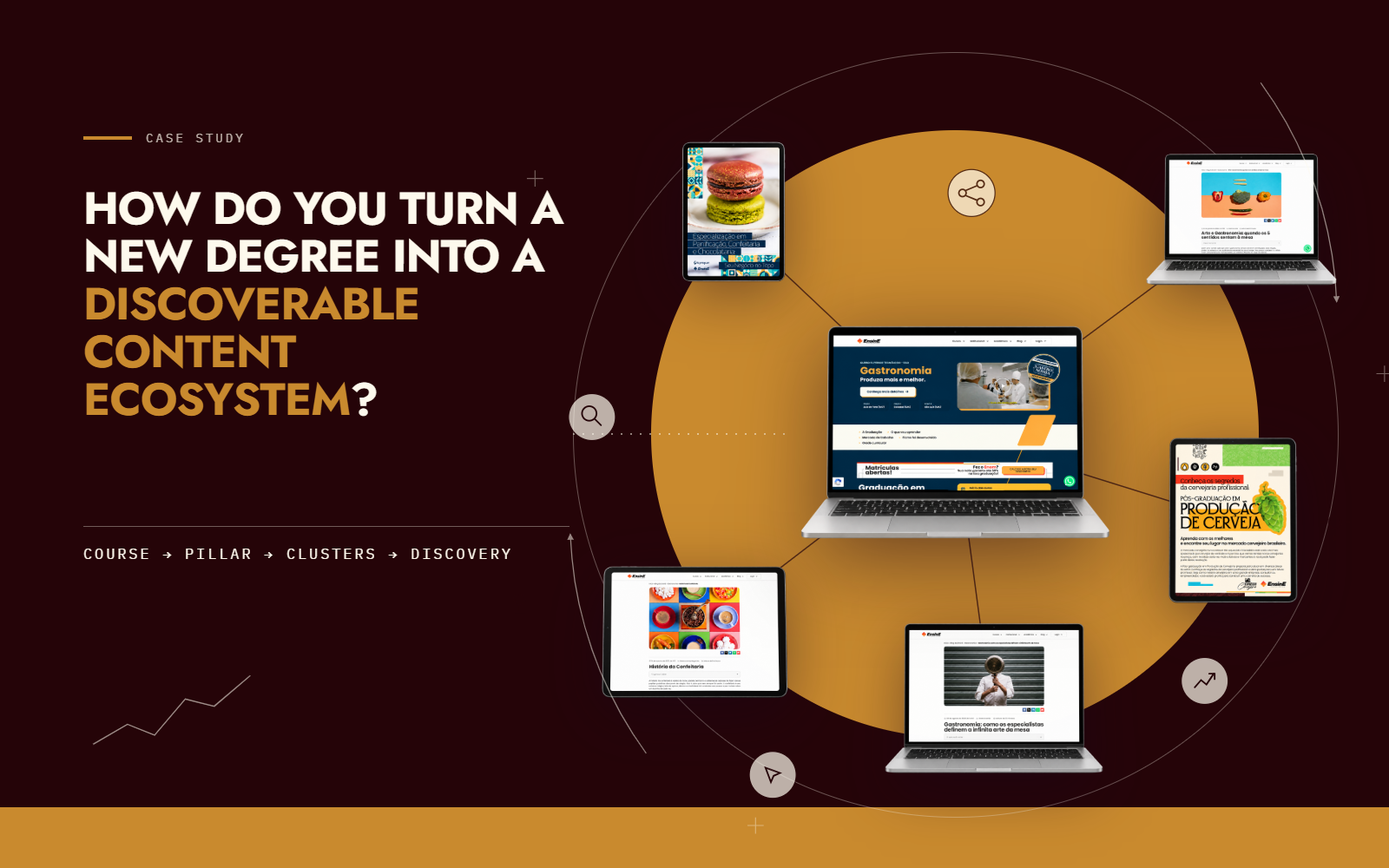
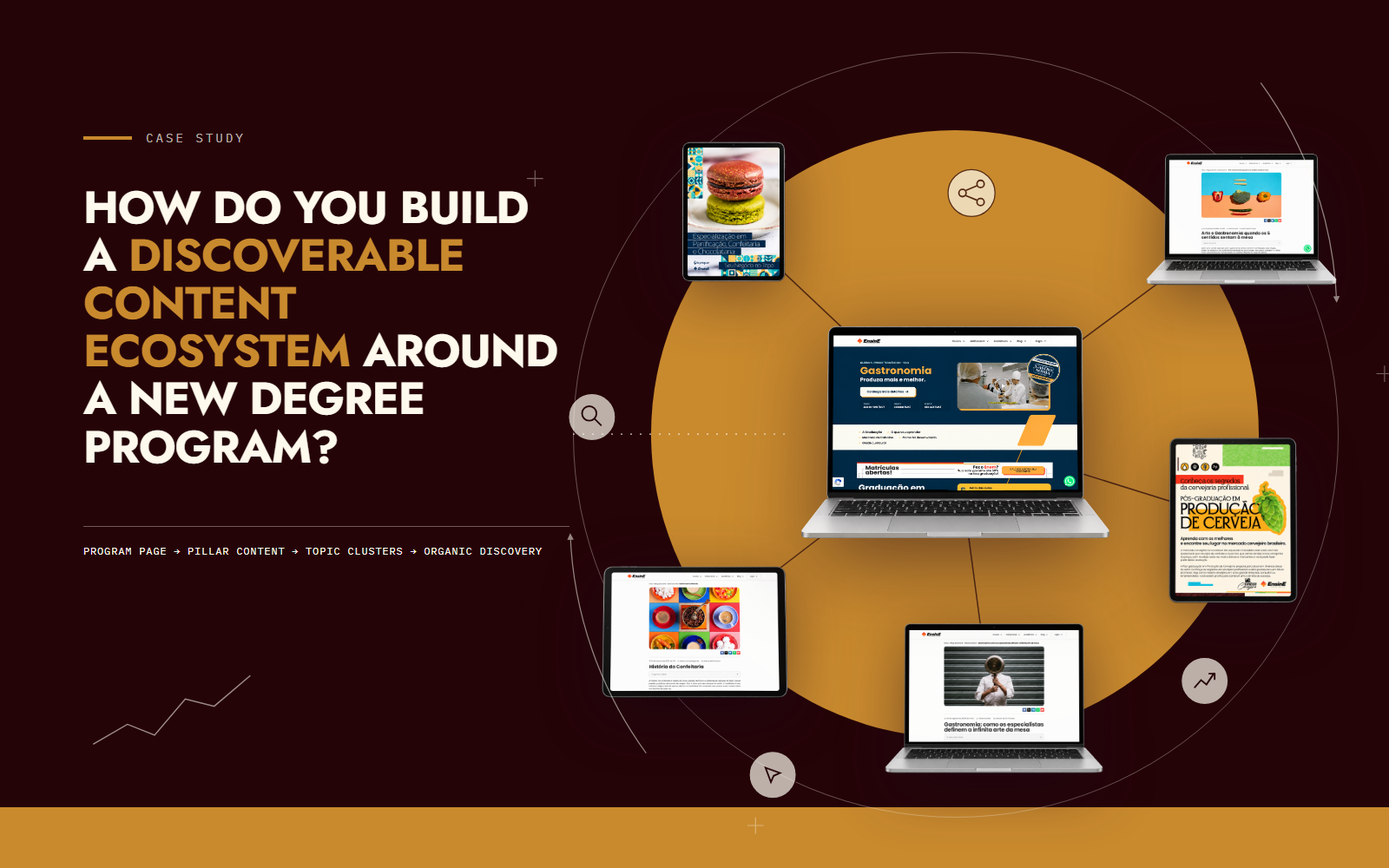
fix: refine portfolio copy and case cover

Changed region(s): [[0.0625, 0.217, 0.4062, 0.558], [0.0625, 0.62, 0.375, 0.651]]

diff --git a/index.html b/index.html
@@ -103,14 +103,14 @@
               <span style="font-family: var(--ds-font-mono); font-size: .72rem; letter-spacing: .18em; text-transform: uppercase; color: var(--ds-color-primary); font-weight: 600;">{{ ensineKicker }}</span>
               <span style="font-family: var(--ds-font-mono); font-size: .72rem; letter-spacing: .1em; text-transform: uppercase; color: rgba(37,4,8,.6);">EnsinE · 2023–2024</span>
             </div>
-            <h3 style="font-family: var(--ds-font-display); font-weight: 700; text-transform: uppercase; font-size: clamp(1.6rem, 3vw, 2.6rem); line-height: 1.08; letter-spacing: -.01em; margin: 0; max-width: 22ch; text-wrap: pretty;">Launching a Gastronomy Degree Through Research, Positioning &amp; SEO</h3>
+            <h3 style="font-family: var(--ds-font-display); font-weight: 700; text-transform: uppercase; font-size: clamp(1.6rem, 3vw, 2.6rem); line-height: 1.08; letter-spacing: -.01em; margin: 0; max-width: 22ch; text-wrap: pretty;">Launching a Gastronomy Degree Program Through Research, Positioning &amp; SEO</h3>
             <div style="display: flex; flex-wrap: wrap; gap: 10px;">
               <x-import component-from-global-scope="MarcaPessoalDesignSystem.Tag" tone="light" hint-size="auto,28px">Product Marketing</x-import>
               <x-import component-from-global-scope="MarcaPessoalDesignSystem.Tag" tone="light" hint-size="auto,28px">Content Strategy</x-import>
               <x-import component-from-global-scope="MarcaPessoalDesignSystem.Tag" tone="light" hint-size="auto,28px">SEO</x-import>
               <x-import component-from-global-scope="MarcaPessoalDesignSystem.Tag" tone="light" hint-size="auto,28px">Audience Development</x-import>
             </div>
-            <p style="font-family: var(--ds-font-body); font-size: clamp(1rem, 1.3vw, 1.25rem); line-height: 1.55; margin: 0; max-width: 66ch; text-wrap: pretty;">Co-defined product marketing with the CMO and led course-page architecture, copy and an SEO-first editorial system connecting search demand to the new degree.</p>
+            <p style="font-family: var(--ds-font-body); font-size: clamp(1rem, 1.3vw, 1.25rem); line-height: 1.55; margin: 0; max-width: 66ch; text-wrap: pretty;">Developed the product marketing strategy with the CMO and led the development of the program page's structure and copy, along with an SEO-led editorial system connecting prospective students' search needs with the new program.</p>
           </div>
 
           <div style="display: flex; flex-direction: column; gap: 12px;">
@@ -119,17 +119,17 @@
                 <image-slot id="ensine-ecosystem-cover-v2" shape="rect" fit="cover" src="assets/ensine-content-ecosystem-cover-v2.png" placeholder="Drop the EnsinE case cover"></image-slot>
               </div>
             </a>
-            <span style="font-family: var(--ds-font-mono); font-size: .72rem; letter-spacing: .05em; color: rgba(37,4,8,.6);">Gastronomy degree · Course → Pillar → Clusters → Discovery</span>
+            <span style="font-family: var(--ds-font-mono); font-size: .72rem; letter-spacing: .05em; color: rgba(37,4,8,.6);">Gastronomy degree program · Program page → Pillar content → Topic clusters → Organic discovery</span>
           </div>
 
           <div style="display: grid; grid-template-columns: repeat(auto-fit, minmax(180px, 1fr)); gap: 24px; border-top: 1px solid var(--ds-color-border); padding-top: 28px;">
             <div style="display: flex; flex-direction: column; gap: 6px;">
               <span style="font-family: var(--ds-font-display); font-weight: 800; font-size: clamp(1.7rem, 3vw, 2.4rem); line-height: 1; letter-spacing: -.02em; color: var(--ds-color-primary);">~40 → 1,833</span>
-              <span style="font-family: var(--ds-font-mono); font-size: .72rem; letter-spacing: .12em; text-transform: uppercase; color: rgba(37,4,8,.7);">Tracked keywords</span>
+              <span style="font-family: var(--ds-font-mono); font-size: .72rem; letter-spacing: .12em; text-transform: uppercase; color: rgba(37,4,8,.7);">Ranking keywords</span>
             </div>
             <div style="display: flex; flex-direction: column; gap: 6px;">
               <span style="font-family: var(--ds-font-display); font-weight: 800; font-size: clamp(1.7rem, 3vw, 2.4rem); line-height: 1; letter-spacing: -.02em; color: var(--ds-color-text-on-light);">155</span>
-              <span style="font-family: var(--ds-font-mono); font-size: .72rem; letter-spacing: .12em; text-transform: uppercase; color: rgba(37,4,8,.7);">Top-3 search positions</span>
+              <span style="font-family: var(--ds-font-mono); font-size: .72rem; letter-spacing: .12em; text-transform: uppercase; color: rgba(37,4,8,.7);">Keywords ranking in the top 3</span>
             </div>
             <div style="display: flex; flex-direction: column; gap: 6px;">
               <span style="font-family: var(--ds-font-display); font-weight: 800; font-size: clamp(1.7rem, 3vw, 2.4rem); line-height: 1; letter-spacing: -.02em; color: var(--ds-color-text-on-light);">~50 → ~21,200</span>
@@ -138,7 +138,7 @@
           </div>
 
           <div style="display: flex; flex-wrap: wrap; gap: 20px; align-items: center; justify-content: space-between;">
-            <a href="ensine-gastronomy.html" style="text-decoration: none;"><x-import component-from-global-scope="MarcaPessoalDesignSystem.Button" variant="secondary" tone="light" hint-size="auto,44px">View case</x-import></a>
+            <a href="ensine-gastronomy.html" style="text-decoration: none;"><x-import component-from-global-scope="MarcaPessoalDesignSystem.Button" variant="secondary" tone="light" hint-size="auto,44px">View case study</x-import></a>
             <sc-if value="{{ showSources }}" hint-placeholder-val="{{ true }}">
               <span style="font-family: var(--ds-font-mono); font-size: .7rem; letter-spacing: .05em; color: rgba(37,4,8,.55);">EnsinE Gastronomy · SEMrush · Jun 2023 → Jun 2024</span>
             </sc-if>
@@ -148,8 +148,8 @@
         <article id="research" style="display: grid; grid-template-columns: minmax(0, 1fr); gap: 28px; border-top: 1px solid var(--ds-color-border); padding-top: 44px;">
           <div style="display: flex; flex-direction: column; gap: 16px; max-width: 70ch;">
             <span style="font-family: var(--ds-font-mono); font-size: .72rem; letter-spacing: .18em; text-transform: uppercase; color: var(--ds-color-secondary); font-weight: 600;">{{ researchKicker }}</span>
-            <h3 style="font-family: var(--ds-font-display); font-weight: 700; text-transform: uppercase; font-size: clamp(1.4rem, 2.4vw, 2.1rem); line-height: 1.1; letter-spacing: -.01em; margin: 0;">Research, synthesis &amp; strategic interpretation</h3>
-            <p style="font-family: var(--ds-font-body); font-size: clamp(1rem, 1.3vw, 1.2rem); line-height: 1.55; margin: 0; text-wrap: pretty;">I work with complex, dispersed information by investigating sources, identifying patterns and turning findings into clearer strategic direction — across academic research, applied content strategy and research systems.</p>
+            <h3 style="font-family: var(--ds-font-display); font-weight: 700; text-transform: uppercase; font-size: clamp(1.4rem, 2.4vw, 2.1rem); line-height: 1.1; letter-spacing: -.01em; margin: 0;">Research, synthesis &amp; strategic insights</h3>
+            <p style="font-family: var(--ds-font-body); font-size: clamp(1rem, 1.3vw, 1.2rem); line-height: 1.55; margin: 0; text-wrap: pretty;">I investigate sources, identify patterns and synthesize complex information into findings that inform strategy. My work spans academic research, applied content strategy and the design of research systems.</p>
           </div>
           <div style="display: grid; grid-template-columns: repeat(auto-fit, minmax(240px, 1fr)); gap: 20px;">
             <div style="background: var(--ds-color-surface-light); border: 1px solid var(--ds-color-border); padding: 24px; display: flex; flex-direction: column; gap: 14px;">
@@ -158,14 +158,14 @@
               </div>
               <span style="font-family: var(--ds-font-display); font-weight: 700; text-transform: uppercase; font-size: 1.05rem; letter-spacing: .01em;">Rede Moitará</span>
               <span style="font-family: var(--ds-font-mono); font-size: .7rem; letter-spacing: .06em; color: rgba(37,4,8,.6);">Informal research collaboration · 2020–2022</span>
-              <p style="font-family: var(--ds-font-body); font-size: .98rem; line-height: 1.55; margin: 0;">Research on material, cultural and technological transformation; co-research and co-writing of an approved FAPERJ project proposal.</p>
+              <p style="font-family: var(--ds-font-body); font-size: .98rem; line-height: 1.55; margin: 0;">Research on material, cultural and technological transformation; collaborative research and co-authoring of a project proposal approved by FAPERJ.</p>
             </div>
             <div style="background: var(--ds-color-surface-light); border: 1px solid var(--ds-color-border); padding: 24px; display: flex; flex-direction: column; gap: 14px;">
               <div style="height: 56px; display: flex; align-items: center;">
                 <image-slot id="logo-capes" shape="rect" fit="contain" placeholder="CAPES logo" style="width: 61px; height: 56px;"></image-slot>
               </div>
               <span style="font-family: var(--ds-font-display); font-weight: 700; text-transform: uppercase; font-size: 1.05rem; letter-spacing: .01em;">CAPES</span>
-              <span style="font-family: var(--ds-font-mono); font-size: .7rem; letter-spacing: .06em; color: rgba(37,4,8,.6);">Research Fellow / Project Collaborator · CAPES-funded scholarship · 2020–2021</span>
+              <span style="font-family: var(--ds-font-mono); font-size: .7rem; letter-spacing: .06em; color: rgba(37,4,8,.6);">Research Fellow / Project Collaborator · Funded by CAPES · 2020–2021</span>
               <p style="font-family: var(--ds-font-body); font-size: .98rem; line-height: 1.55; margin: 0;">Funded research on technology, culture and social transformation amid climate and pandemic crises.</p>
             </div>
             <div style="background: var(--ds-color-surface-light); border: 1px solid var(--ds-color-border); padding: 24px; display: flex; flex-direction: column; gap: 14px;">
@@ -173,8 +173,8 @@
                 <image-slot id="logo-nosmus" shape="rect" fit="contain" placeholder="NOSMUS logo" style="width: 160px; height: 42px;"></image-slot>
               </div>
               <span style="font-family: var(--ds-font-display); font-weight: 700; text-transform: uppercase; font-size: 1.05rem; letter-spacing: .01em;">NOSMUS</span>
-              <span style="font-family: var(--ds-font-mono); font-size: .7rem; letter-spacing: .06em; color: rgba(37,4,8,.6);">Founder · 2026–present · Own venture</span>
-              <p style="font-family: var(--ds-font-body); font-size: .98rem; line-height: 1.55; margin: 0;">Current work designing research, evidence and qualification systems for organizational knowledge work.</p>
+              <span style="font-family: var(--ds-font-mono); font-size: .7rem; letter-spacing: .06em; color: rgba(37,4,8,.6);">Founder · 2026–present</span>
+              <p style="font-family: var(--ds-font-body); font-size: .98rem; line-height: 1.55; margin: 0;">I design systems for research, evidence assessment and opportunity qualification to support organizational knowledge work.</p>
             </div>
           </div>
           <div style="display: flex; flex-wrap: wrap; gap: 8px 24px; align-items: center;">
@@ -189,7 +189,7 @@
           <div style="display: flex; flex-direction: column; gap: 16px; max-width: 70ch;">
             <span style="font-family: var(--ds-font-mono); font-size: .72rem; letter-spacing: .18em; text-transform: uppercase; color: var(--ds-color-secondary); font-weight: 600;">Content Strategy · Nutrição Sem Fronteiras · 2026</span>
             <h3 style="font-family: var(--ds-font-display); font-weight: 700; text-transform: uppercase; font-size: clamp(1.4rem, 2.4vw, 2.1rem); line-height: 1.1; letter-spacing: -.01em; margin: 0;">From audit to an omnichannel content system</h3>
-            <p style="font-family: var(--ds-font-body); font-size: clamp(1rem, 1.3vw, 1.2rem); line-height: 1.55; margin: 0; text-wrap: pretty;">I diagnosed the existing content and communication operation, mapped the audience journey and the role of each channel, defined priority editorial lines and synthesized the findings into a complete omnichannel content strategy.</p>
+            <p style="font-family: var(--ds-font-body); font-size: clamp(1rem, 1.3vw, 1.2rem); line-height: 1.55; margin: 0; text-wrap: pretty;">I audited the organization's content and communications, mapped the audience journey, clarified each channel's role and established editorial priorities. I brought these findings together in a comprehensive omnichannel content strategy.</p>
           </div>
           <div style="display: grid; grid-template-columns: repeat(auto-fit, minmax(260px, 1fr)); gap: 24px; align-items: start;">
             <div style="background: var(--ds-color-background-dark); padding: 24px; display: flex; align-items: center; justify-content: center;">
@@ -201,7 +201,7 @@
                 <x-import component-from-global-scope="MarcaPessoalDesignSystem.Tag" tone="light" hint-size="auto,28px">Audit</x-import>
                 <x-import component-from-global-scope="MarcaPessoalDesignSystem.Tag" tone="light" hint-size="auto,28px">Audience Journey</x-import>
                 <x-import component-from-global-scope="MarcaPessoalDesignSystem.Tag" tone="light" hint-size="auto,28px">Channel Roles</x-import>
-                <x-import component-from-global-scope="MarcaPessoalDesignSystem.Tag" tone="light" hint-size="auto,28px">Editorial Lines</x-import>
+                <x-import component-from-global-scope="MarcaPessoalDesignSystem.Tag" tone="light" hint-size="auto,28px">Editorial Priorities</x-import>
                 <x-import component-from-global-scope="MarcaPessoalDesignSystem.Tag" tone="light" hint-size="auto,28px">Omnichannel Strategy</x-import>
               </div>
             </div>
@@ -223,7 +223,7 @@
             <span style="font-family: var(--ds-font-mono); font-size: .72rem; letter-spacing: .18em; text-transform: uppercase; color: var(--ds-color-secondary); font-weight: 600;">{{ editorialKicker }}</span>
             <h3 style="font-family: var(--ds-font-display); font-weight: 700; text-transform: uppercase; font-size: clamp(1.4rem, 2.4vw, 2.1rem); line-height: 1.1; letter-spacing: -.01em; margin: 0;">Selected Editorial Work</h3>
             <p style="font-family: var(--ds-font-body); font-size: clamp(1rem, 1.3vw, 1.2rem); line-height: 1.55; margin: 0; text-wrap: pretty;">Reporting, research-driven editorial content and SEO work across education, culture, service journalism and consumer brands.</p>
-            <span style="font-family: var(--ds-font-mono); font-size: .7rem; letter-spacing: .06em; color: rgba(37,4,8,.6);">Published clips in Portuguese.</span>
+            <span style="font-family: var(--ds-font-mono); font-size: .7rem; letter-spacing: .06em; color: rgba(37,4,8,.6);">Selected articles published in Portuguese.</span>
           </div>
           <div style="display: grid; grid-template-columns: repeat(auto-fit, minmax(260px, 1fr)); gap: 24px;">
 
@@ -236,7 +236,7 @@
               <span style="font-family: var(--ds-font-mono); font-size: .68rem; letter-spacing: .05em; color: rgba(37,4,8,.6);">Technology · Public policy · Editorial research</span>
               <div style="display: flex; flex-wrap: wrap; gap: 16px; margin-top: auto; padding-top: 6px;">
                 <a href="https://ensin-e.edu.br/o-plano-brasileiro-para-a-inteligencia-artificial/" target="_blank" rel="noopener noreferrer" style="font-family: var(--ds-font-mono); font-size: .7rem; letter-spacing: .1em; text-transform: uppercase; color: var(--ds-color-primary); text-decoration: none; border-bottom: 1px solid currentColor;">Read article ↗</a>
-                <a href="assets/supporting-proof/editorial/ensine-brazil-ai-plan.webp" target="_blank" rel="noopener noreferrer" style="font-family: var(--ds-font-mono); font-size: .7rem; letter-spacing: .1em; text-transform: uppercase; color: rgba(37,4,8,.6); text-decoration: none; border-bottom: 1px solid currentColor;">Inspect capture</a>
+                <a href="assets/supporting-proof/editorial/ensine-brazil-ai-plan.webp" target="_blank" rel="noopener noreferrer" style="font-family: var(--ds-font-mono); font-size: .7rem; letter-spacing: .1em; text-transform: uppercase; color: rgba(37,4,8,.6); text-decoration: none; border-bottom: 1px solid currentColor;">View screenshot</a>
               </div>
             </div>
 
@@ -249,7 +249,7 @@
               <span style="font-family: var(--ds-font-mono); font-size: .68rem; letter-spacing: .05em; color: rgba(37,4,8,.6);">SEO · Research · Storytelling</span>
               <div style="display: flex; flex-wrap: wrap; gap: 16px; margin-top: auto; padding-top: 6px;">
                 <a href="https://blog.cobasi.com.br/baleia-orca-curiosidades-sobre-a-rainha-dos-mares/" target="_blank" rel="noopener noreferrer" style="font-family: var(--ds-font-mono); font-size: .7rem; letter-spacing: .1em; text-transform: uppercase; color: var(--ds-color-primary); text-decoration: none; border-bottom: 1px solid currentColor;">Read article ↗</a>
-                <a href="assets/supporting-proof/editorial/cobasi-orca.webp" target="_blank" rel="noopener noreferrer" style="font-family: var(--ds-font-mono); font-size: .7rem; letter-spacing: .1em; text-transform: uppercase; color: rgba(37,4,8,.6); text-decoration: none; border-bottom: 1px solid currentColor;">Inspect capture</a>
+                <a href="assets/supporting-proof/editorial/cobasi-orca.webp" target="_blank" rel="noopener noreferrer" style="font-family: var(--ds-font-mono); font-size: .7rem; letter-spacing: .1em; text-transform: uppercase; color: rgba(37,4,8,.6); text-decoration: none; border-bottom: 1px solid currentColor;">View screenshot</a>
               </div>
             </div>
 
@@ -262,7 +262,7 @@
               <span style="font-family: var(--ds-font-mono); font-size: .68rem; letter-spacing: .05em; color: rgba(37,4,8,.6);">Research · Fact-checking · Travel</span>
               <div style="display: flex; flex-wrap: wrap; gap: 16px; margin-top: auto; padding-top: 6px;">
                 <a href="https://www.bol.uol.com.br/listas/estradas-mais-perigosas-do-mundo.htm" target="_blank" rel="noopener noreferrer" style="font-family: var(--ds-font-mono); font-size: .7rem; letter-spacing: .1em; text-transform: uppercase; color: var(--ds-color-primary); text-decoration: none; border-bottom: 1px solid currentColor;">Read article ↗</a>
-                <a href="assets/supporting-proof/editorial/bol-dangerous-roads.webp" target="_blank" rel="noopener noreferrer" style="font-family: var(--ds-font-mono); font-size: .7rem; letter-spacing: .1em; text-transform: uppercase; color: rgba(37,4,8,.6); text-decoration: none; border-bottom: 1px solid currentColor;">Inspect capture</a>
+                <a href="assets/supporting-proof/editorial/bol-dangerous-roads.webp" target="_blank" rel="noopener noreferrer" style="font-family: var(--ds-font-mono); font-size: .7rem; letter-spacing: .1em; text-transform: uppercase; color: rgba(37,4,8,.6); text-decoration: none; border-bottom: 1px solid currentColor;">View screenshot</a>
               </div>
             </div>
 
@@ -274,7 +274,7 @@
               <h4 lang="pt-BR" style="font-family: var(--ds-font-body); font-weight: 600; font-size: 1.05rem; line-height: 1.35; margin: 0; text-wrap: pretty;">O olhar crítico de Tendler</h4>
               <span style="font-family: var(--ds-font-mono); font-size: .68rem; letter-spacing: .05em; color: rgba(37,4,8,.6);">Reporting · Cinema · Culture</span>
               <div style="display: flex; flex-wrap: wrap; gap: 16px; margin-top: auto; padding-top: 6px;">
-                <a href="assets/supporting-proof/editorial/adufrj-silvio-tendler.webp" target="_blank" rel="noopener noreferrer" style="font-family: var(--ds-font-mono); font-size: .7rem; letter-spacing: .1em; text-transform: uppercase; color: var(--ds-color-primary); text-decoration: none; border-bottom: 1px solid currentColor;">Inspect clipping</a>
+                <a href="assets/supporting-proof/editorial/adufrj-silvio-tendler.webp" target="_blank" rel="noopener noreferrer" style="font-family: var(--ds-font-mono); font-size: .7rem; letter-spacing: .1em; text-transform: uppercase; color: var(--ds-color-primary); text-decoration: none; border-bottom: 1px solid currentColor;">View press clipping</a>
               </div>
             </div>
 
@@ -288,14 +288,14 @@
       <div style="max-width: 1180px; margin: 0 auto; padding: 0 32px; display: flex; flex-direction: column; gap: 48px;">
         <div style="display: flex; flex-direction: column; gap: 14px;">
           <span style="font-family: var(--ds-font-mono); font-size: .72rem; letter-spacing: .18em; text-transform: uppercase; color: var(--ds-color-secondary); font-weight: 600;">Evidence in practice</span>
-          <h2 style="font-family: var(--ds-font-display); font-weight: 800; text-transform: uppercase; font-size: clamp(2rem, 4.2vw, 3.25rem); line-height: 1.05; letter-spacing: -.01em; margin: 0;">Selected Proof</h2>
+          <h2 style="font-family: var(--ds-font-display); font-weight: 800; text-transform: uppercase; font-size: clamp(2rem, 4.2vw, 3.25rem); line-height: 1.05; letter-spacing: -.01em; margin: 0;">Selected Results</h2>
         </div>
         <div style="display: grid; grid-template-columns: repeat(auto-fit, minmax(280px, 1fr)); gap: 32px;">
 
           <div style="display: flex; flex-direction: column; gap: 12px; border-top: 1px solid rgba(253,249,237,.2); padding-top: 20px;">
-            <h3 style="font-family: var(--ds-font-mono); font-weight: 600; font-size: .75rem; letter-spacing: .18em; text-transform: uppercase; margin: 0; color: rgba(253,249,237,.7);">Organic discovery</h3>
-            <span style="font-family: var(--ds-font-display); font-weight: 800; text-transform: uppercase; font-size: clamp(1.4rem, 2.2vw, 1.9rem); line-height: 1.05; letter-spacing: -.01em; color: var(--ds-color-primary);">~40 → 1,833 tracked keywords</span>
-            <p style="font-family: var(--ds-font-body); font-size: 1rem; line-height: 1.55; margin: 0; color: rgba(253,249,237,.85);">155 top-3 search positions · ~50 → ~21,200 estimated monthly organic visits.</p>
+            <h3 style="font-family: var(--ds-font-mono); font-weight: 600; font-size: .75rem; letter-spacing: .18em; text-transform: uppercase; margin: 0; color: rgba(253,249,237,.7);">Organic search visibility</h3>
+            <span style="font-family: var(--ds-font-display); font-weight: 800; text-transform: uppercase; font-size: clamp(1.4rem, 2.2vw, 1.9rem); line-height: 1.05; letter-spacing: -.01em; color: var(--ds-color-primary);">~40 → 1,833 ranking keywords</span>
+            <p style="font-family: var(--ds-font-body); font-size: 1rem; line-height: 1.55; margin: 0; color: rgba(253,249,237,.85);">155 keywords ranking in the top 3 · ~50 → ~21,200 estimated monthly organic visits.</p>
             <sc-if value="{{ showSources }}" hint-placeholder-val="{{ true }}">
               <span style="font-family: var(--ds-font-mono); font-size: .68rem; letter-spacing: .05em; color: rgba(253,249,237,.55);">EnsinE Gastronomy · SEMrush · Jun 2023 → Jun 2024</span>
             </sc-if>
@@ -303,8 +303,8 @@
 
           <div style="display: flex; flex-direction: column; gap: 12px; border-top: 1px solid rgba(253,249,237,.2); padding-top: 20px;">
             <h3 style="font-family: var(--ds-font-mono); font-weight: 600; font-size: .75rem; letter-spacing: .18em; text-transform: uppercase; margin: 0; color: rgba(253,249,237,.7);">Conversion</h3>
-            <span style="font-family: var(--ds-font-display); font-weight: 800; text-transform: uppercase; font-size: clamp(1.4rem, 2.2vw, 1.9rem); line-height: 1.05; letter-spacing: -.01em;">Average quarterly +111%</span>
-            <p style="font-family: var(--ds-font-body); font-size: 1rem; line-height: 1.55; margin: 0; color: rgba(253,249,237,.85);">Contributed to an average quarterly 111% increase in visitor-to-lead conversion rate through content optimization, UX writing and data-informed iteration.</p>
+            <span style="font-family: var(--ds-font-display); font-weight: 800; text-transform: uppercase; font-size: clamp(1.4rem, 2.2vw, 1.9rem); line-height: 1.05; letter-spacing: -.01em;">Average quarterly increase: 111%</span>
+            <p style="font-family: var(--ds-font-body); font-size: 1rem; line-height: 1.55; margin: 0; color: rgba(253,249,237,.85);">Contributed to an average quarterly increase of 111% in the visitor-to-lead conversion rate through content optimization, UX writing and data-informed improvements.</p>
             <sc-if value="{{ showSources }}" hint-placeholder-val="{{ true }}">
               <span style="font-family: var(--ds-font-mono); font-size: .68rem; letter-spacing: .05em; color: rgba(253,249,237,.55);">EnsinE · GA4</span>
             </sc-if>
@@ -312,7 +312,7 @@
 
           <div style="display: flex; flex-direction: column; gap: 12px; border-top: 1px solid rgba(253,249,237,.2); padding-top: 20px;">
             <h3 style="font-family: var(--ds-font-mono); font-weight: 600; font-size: .75rem; letter-spacing: .18em; text-transform: uppercase; margin: 0; color: rgba(253,249,237,.7);">Research</h3>
-            <span style="font-family: var(--ds-font-display); font-weight: 800; text-transform: uppercase; font-size: clamp(1.4rem, 2.2vw, 1.9rem); line-height: 1.05; letter-spacing: -.01em;">Research collaboration across five universities</span>
+            <span style="font-family: var(--ds-font-display); font-weight: 800; text-transform: uppercase; font-size: clamp(1.4rem, 2.2vw, 1.9rem); line-height: 1.05; letter-spacing: -.01em;">Research collaboration involving five universities</span>
             <p style="font-family: var(--ds-font-body); font-size: 1rem; line-height: 1.55; margin: 0; color: rgba(253,249,237,.85);">UFF, UFRJ, UERJ, UNIRIO and UEM.</p>
             <sc-if value="{{ showSources }}" hint-placeholder-val="{{ true }}">
               <span style="font-family: var(--ds-font-mono); font-size: .68rem; letter-spacing: .05em; color: rgba(253,249,237,.55);">Rede Moitará · 2020–2022</span>
@@ -321,8 +321,8 @@
 
           <div style="display: flex; flex-direction: column; gap: 12px; border-top: 1px solid rgba(253,249,237,.2); padding-top: 20px;">
             <h3 style="font-family: var(--ds-font-mono); font-weight: 600; font-size: .75rem; letter-spacing: .18em; text-transform: uppercase; margin: 0; color: rgba(253,249,237,.7);">Strategy</h3>
-            <span style="font-family: var(--ds-font-display); font-weight: 800; text-transform: uppercase; font-size: clamp(1.4rem, 2.2vw, 1.9rem); line-height: 1.05; letter-spacing: -.01em;">Complete omnichannel content strategy delivered</span>
-            <p style="font-family: var(--ds-font-body); font-size: 1rem; line-height: 1.55; margin: 0; color: rgba(253,249,237,.85);">From communication audit to audience journey, channel roles and editorial direction.</p>
+            <span style="font-family: var(--ds-font-display); font-weight: 800; text-transform: uppercase; font-size: clamp(1.4rem, 2.2vw, 1.9rem); line-height: 1.05; letter-spacing: -.01em;">Comprehensive omnichannel content strategy</span>
+            <p style="font-family: var(--ds-font-body); font-size: 1rem; line-height: 1.55; margin: 0; color: rgba(253,249,237,.85);">From a communications audit to audience journey mapping, channel planning and editorial direction.</p>
             <sc-if value="{{ showSources }}" hint-placeholder-val="{{ true }}">
               <span style="font-family: var(--ds-font-mono); font-size: .68rem; letter-spacing: .05em; color: rgba(253,249,237,.55);">Nutrição Sem Fronteiras · 2026</span>
             </sc-if>
@@ -340,7 +340,7 @@
         </div>
         <div style="display: grid; grid-template-columns: repeat(auto-fit, minmax(280px, 1fr)); gap: 20px;">
           <div style="background: var(--ds-color-surface-light); border: 1px solid var(--ds-color-border); border-top: 3px solid var(--ds-color-text-on-light); padding: 28px; display: flex; flex-direction: column; gap: 12px;">
-            <h3 style="font-family: var(--ds-font-display); font-weight: 700; text-transform: uppercase; font-size: 1.2rem; line-height: 1.15; letter-spacing: -.005em; margin: 0;">Content Intelligence Audit</h3>
+            <h3 style="font-family: var(--ds-font-display); font-weight: 700; text-transform: uppercase; font-size: 1.2rem; line-height: 1.15; letter-spacing: -.005em; margin: 0;">Content Audit &amp; Analysis</h3>
             <p style="font-family: var(--ds-font-body); font-size: 1rem; line-height: 1.55; margin: 0;">Understand what your content is saying, what it is missing and what should change.</p>
           </div>
           <div style="background: var(--ds-color-surface-light); border: 1px solid var(--ds-color-border); border-top: 3px solid var(--ds-color-text-on-light); padding: 28px; display: flex; flex-direction: column; gap: 12px;">
@@ -352,11 +352,11 @@
             <p style="font-family: var(--ds-font-body); font-size: 1rem; line-height: 1.55; margin: 0;">Connect search demand, content architecture and audience development.</p>
           </div>
           <div style="background: var(--ds-color-surface-light); border: 1px solid var(--ds-color-border); border-top: 3px solid var(--ds-color-text-on-light); padding: 28px; display: flex; flex-direction: column; gap: 12px;">
-            <h3 style="font-family: var(--ds-font-display); font-weight: 700; text-transform: uppercase; font-size: 1.2rem; line-height: 1.15; letter-spacing: -.005em; margin: 0;">Authority &amp; Thought Leadership System</h3>
-            <p style="font-family: var(--ds-font-body); font-size: 1rem; line-height: 1.55; margin: 0;">Turn expertise and knowledge into structured, credible public content.</p>
+            <h3 style="font-family: var(--ds-font-display); font-weight: 700; text-transform: uppercase; font-size: 1.2rem; line-height: 1.15; letter-spacing: -.005em; margin: 0;">Authority &amp; Thought Leadership Strategy</h3>
+            <p style="font-family: var(--ds-font-body); font-size: 1rem; line-height: 1.55; margin: 0;">Turn subject-matter expertise into clear, credible content that builds authority.</p>
           </div>
           <div style="background: var(--ds-color-surface-light); border: 1px solid var(--ds-color-border); border-top: 3px solid var(--ds-color-text-on-light); padding: 28px; display: flex; flex-direction: column; gap: 12px;">
-            <h3 style="font-family: var(--ds-font-display); font-weight: 700; text-transform: uppercase; font-size: 1.2rem; line-height: 1.15; letter-spacing: -.005em; margin: 0;">Content Strategy Advisory</h3>
+            <h3 style="font-family: var(--ds-font-display); font-weight: 700; text-transform: uppercase; font-size: 1.2rem; line-height: 1.15; letter-spacing: -.005em; margin: 0;">Content Strategy Advisory Services</h3>
             <p style="font-family: var(--ds-font-body); font-size: 1rem; line-height: 1.55; margin: 0;">Senior strategic support for teams that need judgment, prioritization and direction.</p>
           </div>
         </div>
@@ -370,13 +370,13 @@
           <span style="font-family: var(--ds-font-mono); font-size: .72rem; letter-spacing: .18em; text-transform: uppercase; color: var(--ds-color-secondary); font-weight: 600;">The person behind the work</span>
           <h2 style="font-family: var(--ds-font-display); font-weight: 800; text-transform: uppercase; font-size: clamp(2rem, 4.2vw, 3.25rem); line-height: 1.05; letter-spacing: -.01em; margin: 0;">About</h2>
           <div style="display: flex; flex-direction: column; gap: 6px; margin-top: 12px; border-top: 1px solid var(--ds-color-border); padding-top: 16px;">
-            <span style="font-family: var(--ds-font-mono); font-size: .72rem; letter-spacing: .06em; color: rgba(37,4,8,.7);">Journalism — UFF · MA Communication &amp; Culture — UFRJ</span>
+            <span style="font-family: var(--ds-font-mono); font-size: .72rem; letter-spacing: .06em; color: rgba(37,4,8,.7);">Journalism — UFF · Master's in Communication and Culture — UFRJ</span>
             <span style="font-family: var(--ds-font-mono); font-size: .72rem; letter-spacing: .06em; color: rgba(37,4,8,.7);">Rio de Janeiro · Remote</span>
           </div>
         </div>
         <div style="display: flex; flex-direction: column; gap: 20px; max-width: 66ch;">
-          <p style="font-family: var(--ds-font-body); font-size: clamp(1rem, 1.3vw, 1.2rem); line-height: 1.6; margin: 0; text-wrap: pretty;">I'm Filipe Galvão, a Content Strategist &amp; Journalist based in Rio de Janeiro. A journalist by training, with a master's in Communication and Culture, I moved from reporting and academic research into content strategy, brand positioning and audience development. The thread through that work is <mark class="ds-accent" style="background: none; color: var(--ds-color-primary);">sensemaking</mark>: turning dispersed information into useful direction.</p>
-          <p style="font-family: var(--ds-font-body); font-size: clamp(1rem, 1.3vw, 1.2rem); line-height: 1.6; margin: 0; text-wrap: pretty;">I start by investigating the problem, checking sources and understanding the audience. Then I connect findings to positioning, editorial choices, channel roles and measurement. My aim is to make complex knowledge clear and useful, with a coherent strategy behind what gets published.</p>
+          <p style="font-family: var(--ds-font-body); font-size: clamp(1rem, 1.3vw, 1.2rem); line-height: 1.6; margin: 0; text-wrap: pretty;">I'm Filipe Galvão, a Content Strategist &amp; Journalist based in Rio de Janeiro. A journalist by training, with a master's in Communication and Culture, I moved from reporting and academic research into content strategy, brand positioning and audience development. The common thread running through my work is <mark class="ds-accent" style="background: none; color: var(--ds-color-primary);">sensemaking</mark>: bringing information from multiple sources together to guide decisions.</p>
+          <p style="font-family: var(--ds-font-body); font-size: clamp(1rem, 1.3vw, 1.2rem); line-height: 1.6; margin: 0; text-wrap: pretty;">I start by investigating the problem, checking sources and understanding the audience. I use those findings to guide positioning, editorial decisions, each channel's role and performance measurement. My aim is to make complex knowledge clear and useful, with a coherent strategy behind what gets published.</p>
           <p style="font-family: var(--ds-font-body); font-size: clamp(1rem, 1.3vw, 1.2rem); line-height: 1.6; margin: 0; text-wrap: pretty;">I'm also the founder of NOSMUS, an independent venture applying research and systems thinking to organizational intelligence and knowledge work.</p>
         </div>
       </div>
@@ -386,7 +386,7 @@
       <div style="max-width: 1180px; margin: 0 auto; padding: 0 32px; display: flex; flex-direction: column; gap: 28px;">
         <span style="font-family: var(--ds-font-mono); font-size: .72rem; letter-spacing: .18em; text-transform: uppercase; color: var(--ds-color-secondary); font-weight: 600;">A good place to start</span>
         <h2 style="font-family: var(--ds-font-display); font-weight: 800; text-transform: uppercase; font-size: clamp(2.4rem, 6vw, 4.25rem); line-height: 1; letter-spacing: -.02em; margin: 0;">Let's talk</h2>
-        <p style="font-family: var(--ds-font-body); font-size: clamp(1.05rem, 1.5vw, 1.4rem); line-height: 1.5; margin: 0; max-width: 60ch; color: rgba(253,249,237,.88); text-wrap: pretty;">If you're working through a complex content, research or audience problem, feel free to get in touch.</p>
+        <p style="font-family: var(--ds-font-body); font-size: clamp(1.05rem, 1.5vw, 1.4rem); line-height: 1.5; margin: 0; max-width: 60ch; color: rgba(253,249,237,.88); text-wrap: pretty;">If you're working through a challenge involving content, research or audience development, let's talk.</p>
         <div style="display: flex; flex-wrap: wrap; gap: 16px; margin-top: 8px;">
           <a href="mailto:filipe.ferreira.galvao@gmail.com" style="text-decoration: none;"><x-import component-from-global-scope="MarcaPessoalDesignSystem.Button" variant="primary" hint-size="auto,44px">filipe.ferreira.galvao@gmail.com</x-import></a>
           <a href="https://www.linkedin.com/in/filipe-galv%C3%A3o" target="_blank" rel="noopener noreferrer" style="text-decoration: none;"><x-import component-from-global-scope="MarcaPessoalDesignSystem.Button" variant="secondary" tone="dark" hint-size="auto,44px">LinkedIn ↗</x-import></a>
